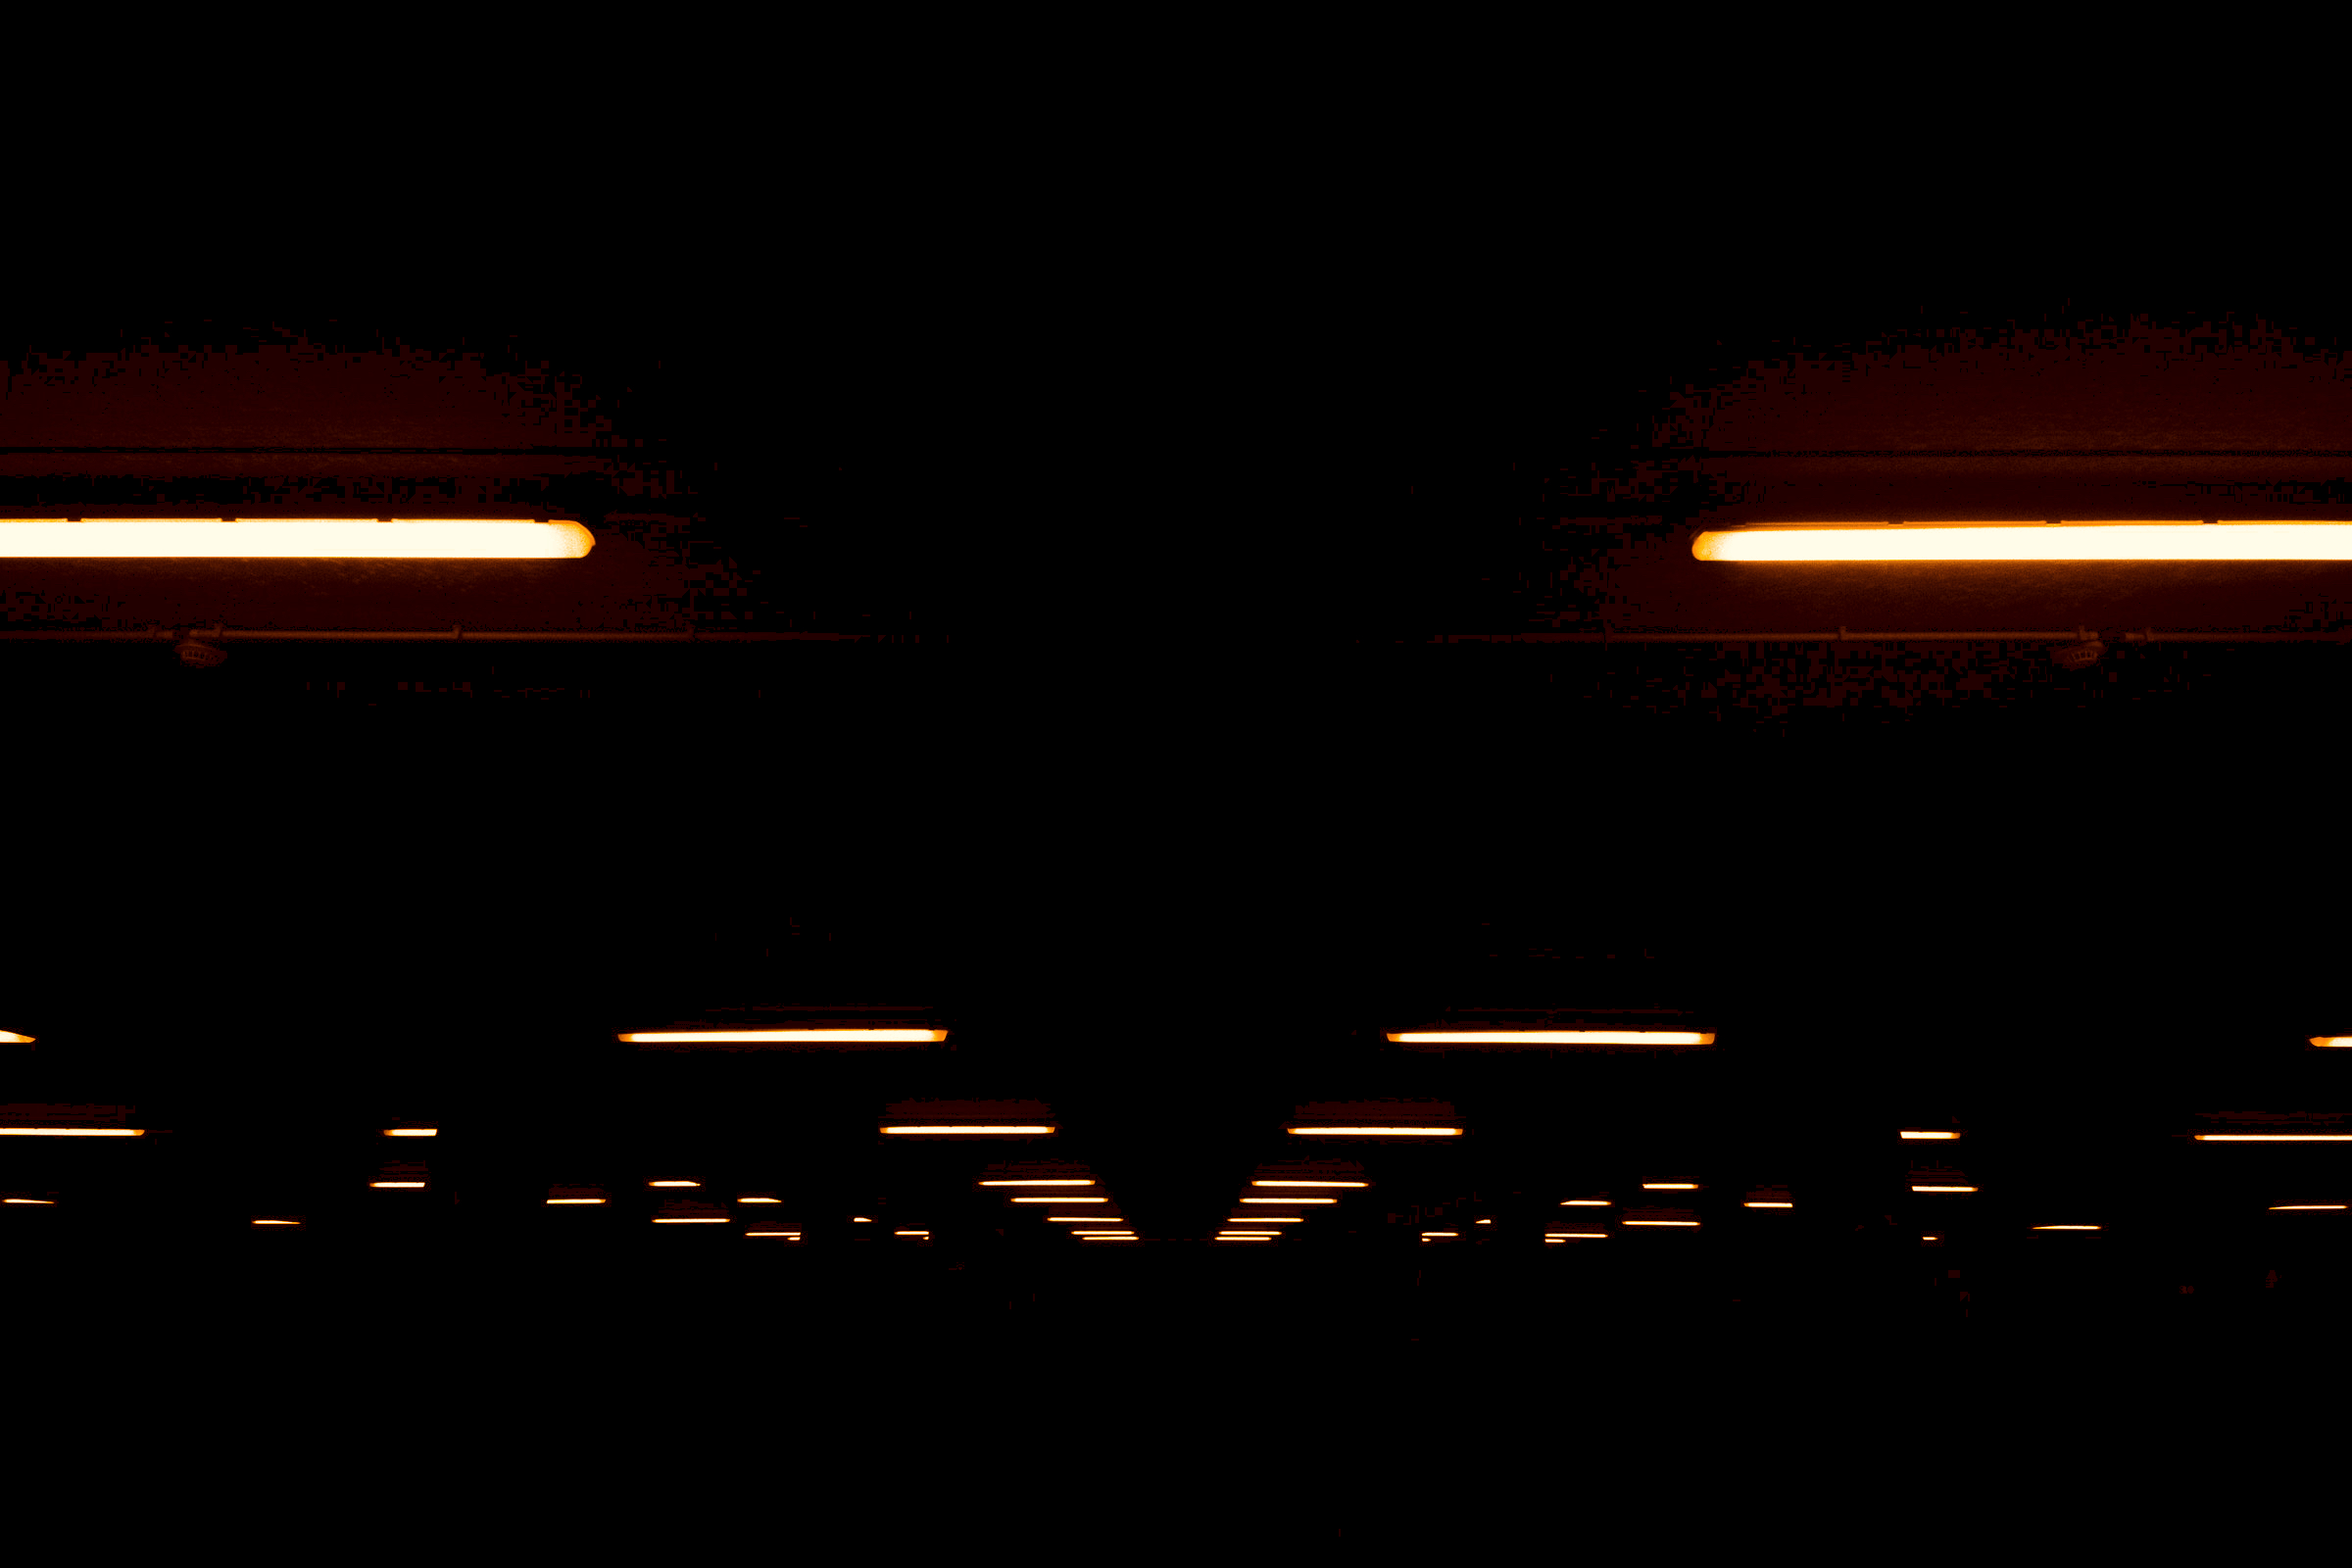
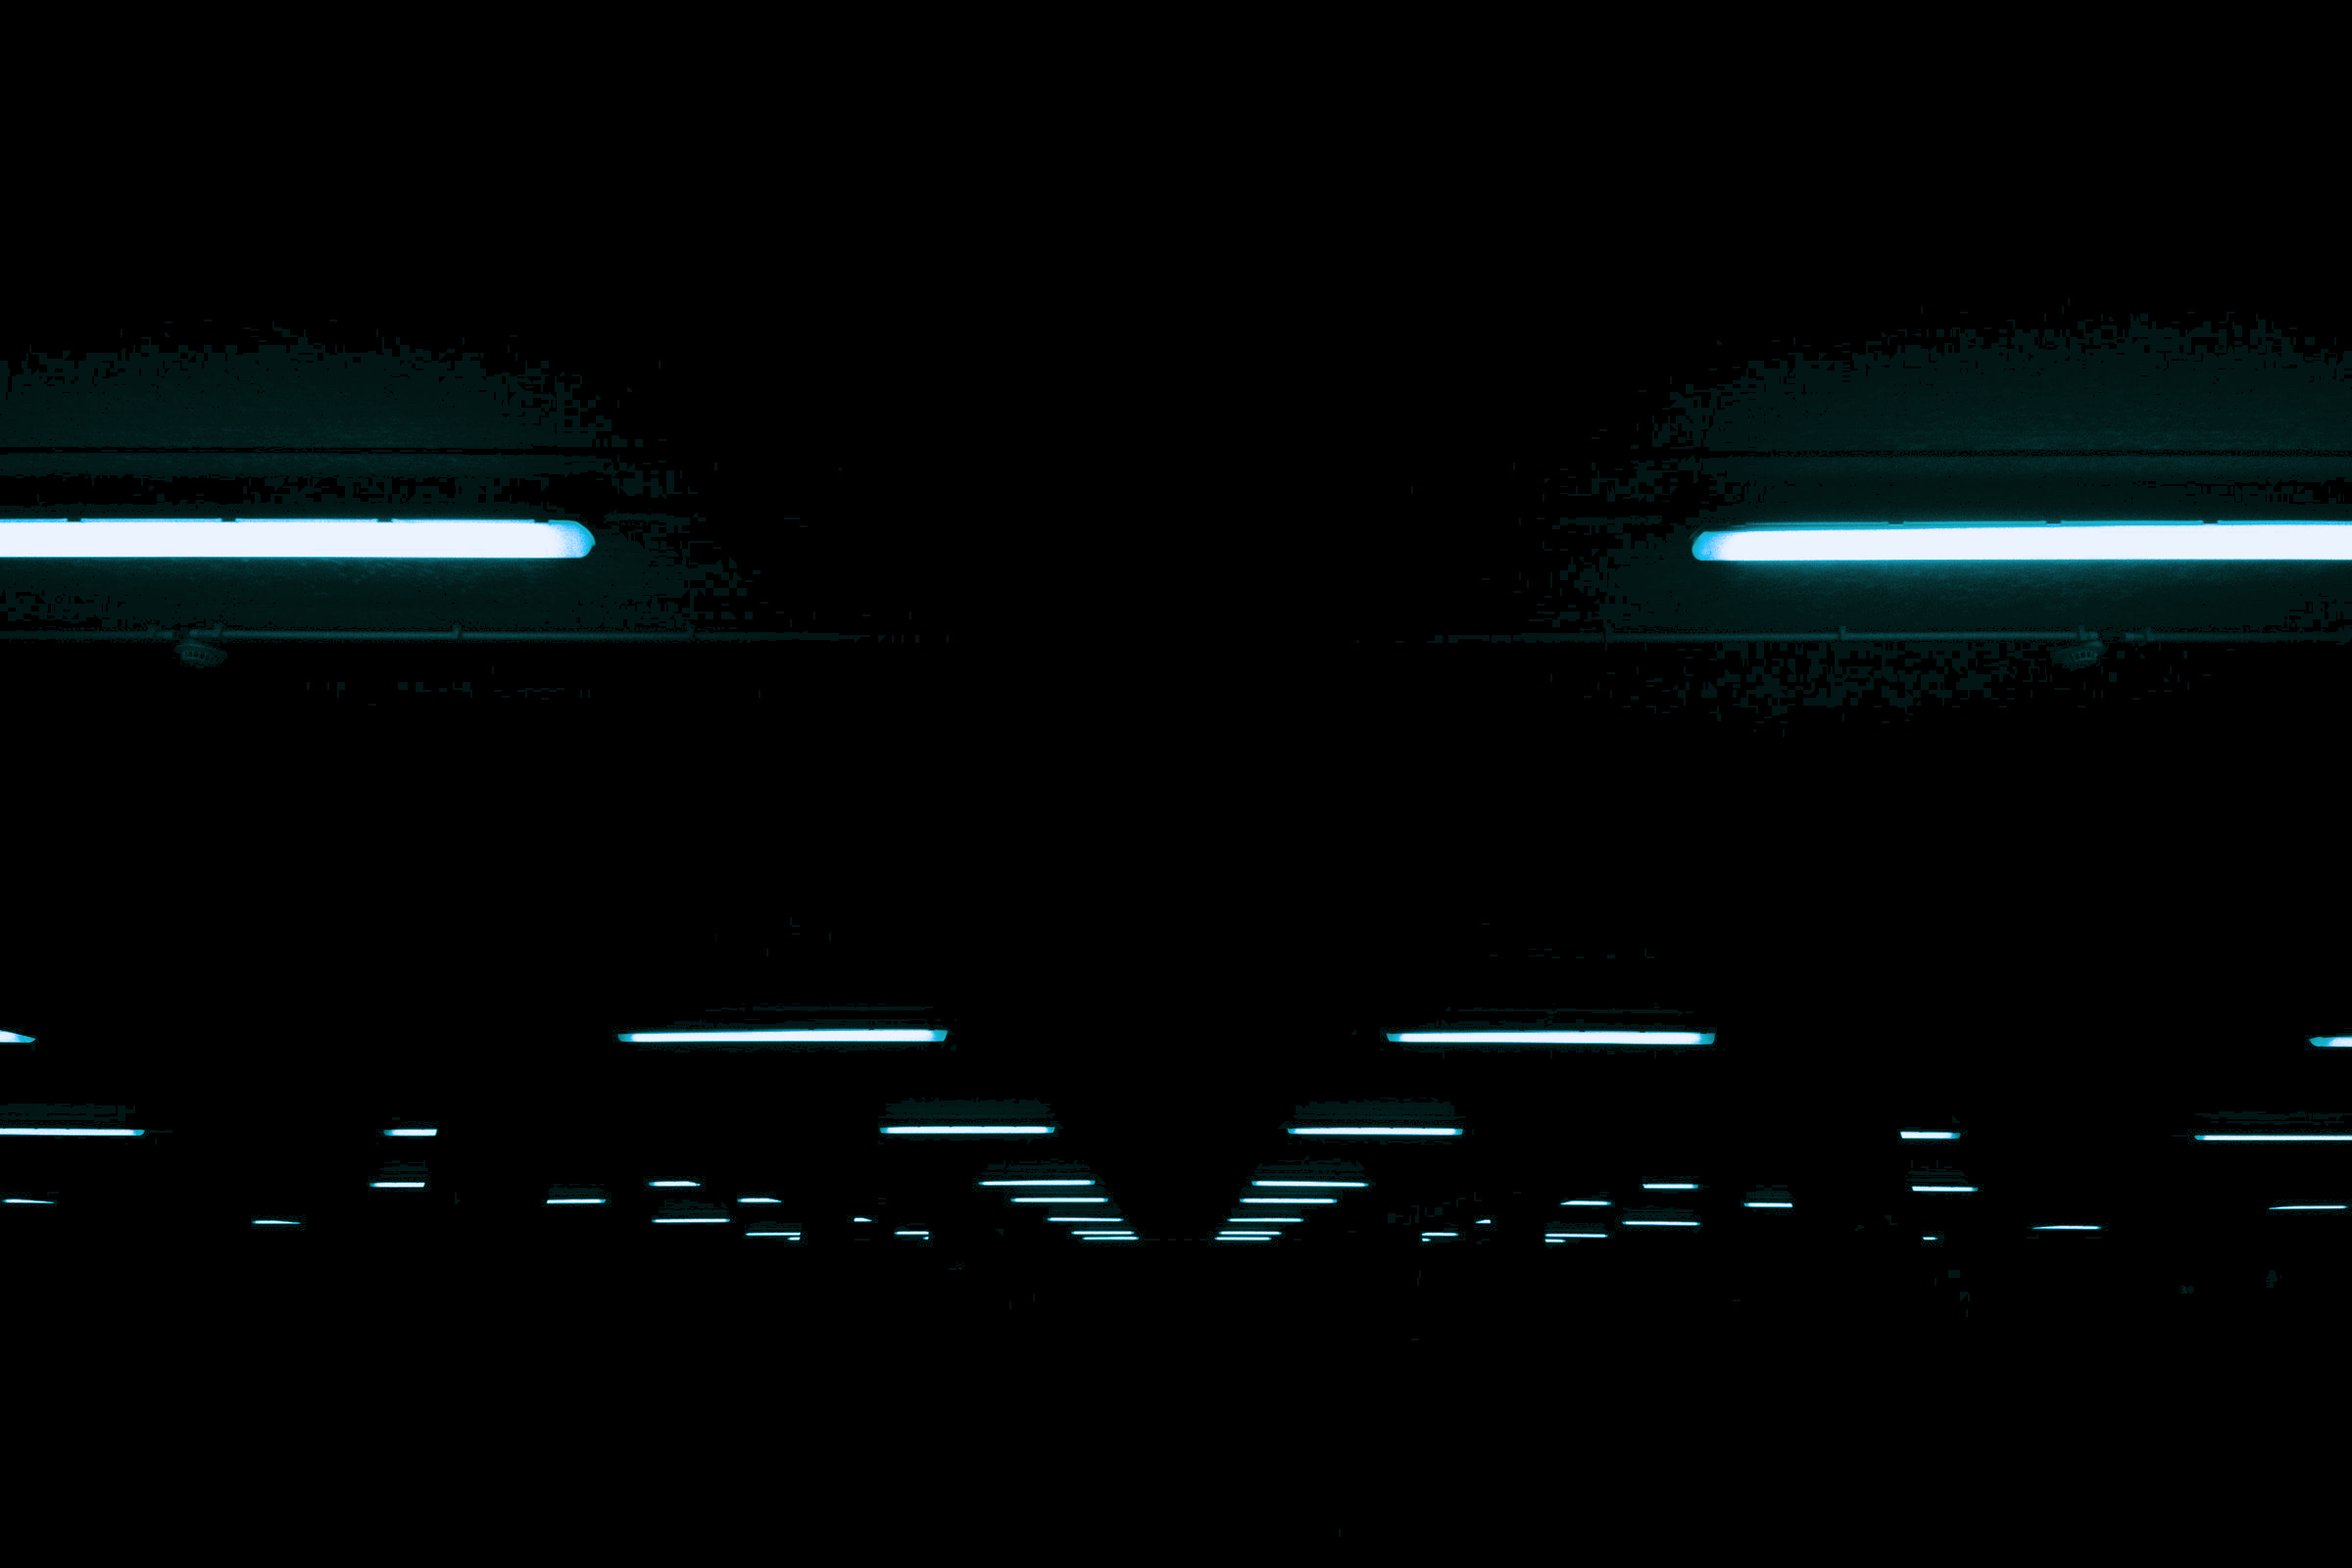
second css classes added for darth vader theme - working - in progress

diff --git a/index.html b/index.html
@@ -5,14 +5,12 @@
   <meta name="viewport" content="width=device-width, initial-scale=1.0">
   <title>Anish Vadher Portfolio</title>
   <link rel="stylesheet" href="https://cdnjs.cloudflare.com/ajax/libs/materialize/0.100.2/css/materialize.min.css">
-  <!-- <link rel="stylesheet" href="css/tiltedpage-scroll.css"> -->
   <link rel="stylesheet" type="text/css" href="https://cdnjs.cloudflare.com/ajax/libs/fullPage.js/2.9.6/jquery.fullpage.css" />
   <link href="https://fonts.googleapis.com/icon?family=Material+Icons" rel="stylesheet">
   <link rel="stylesheet" href="css/styles.css">
   <script
   src="http://code.jquery.com/jquery-3.3.1.min.js"></script>
   <script src="https://cdnjs.cloudflare.com/ajax/libs/materialize/0.100.2/js/materialize.min.js"></script>
-  <!-- <script type="text/javascript" src="js/jquery.tiltedpage-scroll.js"></script> -->
   <script type="text/javascript" src="https://cdnjs.cloudflare.com/ajax/libs/fullPage.js/2.9.6/jquery.fullpage.js"></script>
   <script defer src="https://use.fontawesome.com/releases/v5.0.6/js/all.js"></script>
   <script type="text/javascript" src="js/app.js"></script>
@@ -29,15 +27,16 @@
           </div>
         </div>
         <div class="row">
-          <div class="col s10">
+          <div class="col s4 m10">
             <a href="https://github.com/avadher510"><i class="fab fa-github fa-2x"></i></a>
           </div>
-          <div class="col s1">
+          <div class="col s4 m1">
             <a href="#contact-form"><i class="fas fa-envelope fa-2x"></i></a>
           </div>
-          <div class="col s1">
+          <div class="col s4 m1">
             <a href="https://www.linkedin.com/in/anish-vadher/"><i class="fab fa-linkedin fa-2x"></i></a>
           </div>
+          <button id="theme" class="theme-btn">Click Here to Change Theme</button>
         </div>
       </div>
     </div>
@@ -142,7 +141,16 @@
             <ul class="collapsible" data-collapsible="accordion">
               <li>
                 <div class="collapsible-header"><i class="material-icons">beenhere</i>Interests</div>
-                <div class="collapsible-body"><span></span></div>
+                <div class="collapsible-body">
+                  <span>
+                    <br />
+                    Gym
+                    <br />
+                    American Football
+                    <br />
+                    Development
+                  </span>
+                </div>
               </li>
             </ul>
           </div>
@@ -150,7 +158,17 @@
             <ul class="collapsible" data-collapsible="accordion">
               <li>
                 <div class="collapsible-header"><i class="material-icons">person_pin</i>Hobbies</div>
-                <div class="collapsible-body"><span>My Hobbies</span></div>
+                <div class="collapsible-body">
+                  <span>
+                    Woodcarving
+                    <br />
+                    Guitar
+                    <br />
+                    Motorbikes
+                    <br />
+                    Reading to Improve Skills
+                  </span>
+                </div>
               </li>
             </ul>
           </div>
@@ -159,8 +177,20 @@
           <div class="col s12 m6">
             <ul class="collapsible" data-collapsible="accordion">
               <li>
-                <div class="collapsible-header"><i class="material-icons">whatshot</i>Goals</div>
-                <div class="collapsible-body"><span>My Goals</span></div>
+                <div class="collapsible-header"><i class="material-icons">whatshot</i>Professional Goals</div>
+                <div class="collapsible-body">
+                  <span>
+                    I am a highly motivated individual. My motivation is not external - it is intrinsic. I have the drive from within myself to want to achieve my goals.
+                    <br />
+                    Continue Learning - to be the best at my profession.
+                    <br />
+                    Become an asset to the company for whom I work.
+                    <br />
+                    To impart my skills and knowledge to others starting in the industry.
+                    <br />
+                    Be at the forefront of technology.
+                  </span>
+                </div>
               </li>
             </ul>
           </div>
@@ -168,7 +198,19 @@
             <ul class="collapsible" data-collapsible="accordion">
               <li>
                 <div class="collapsible-header"><i class="material-icons">sentiment_very_satisfied</i>Achievements</div>
-                <div class="collapsible-body"><span>My Achievements</span></div>
+                <div class="collapsible-body">
+                  <span>
+                    My achievements are available on my CV and LinkedIn, but to Summarise:
+                    <br />
+                    Working hard to make my career move to Development
+                    <br />
+                    My Education.
+                    <br />
+                    My Professional Experience.
+                    <br />
+                    My surname (Vadher - Star Wars anyone? )
+                  </span>
+                </div>
               </li>
             </ul>
           </div>

diff --git a/js/app.js b/js/app.js
@@ -1,14 +1,27 @@
 $( document ).ready(function() {
-
-  // $('.main').tiltedpage_scroll({
-  //   sectionContainer: '> section',     // In case you don't want to use <section> tag, you can define your won CSS selector here
-  //   angle: 50,                         // You can define the angle of the tilted section here. Change this to false if you want to disable the tilted effect. The default value is 50 degrees.
-  //   opacity: true,                     // You can toggle the opacity effect with this option. The default value is true
-  //   scale: true,                       // You can toggle the scaling effect here as well. The default value is true.
-  //   outAnimation: true                 // In case you do not want the out animation, you can toggle this to false. The defaul value is true.
-  // });
   $('#fullpage').fullpage();
-  $('.modal').modal();
   $('.collapsible').collapsible();
+
+  const $page1bg = $('.page1-bg');
+  const $page2bg = $('.page2-bg');
+  const $page3bg = $('.page3-bg');
+  const $page4bg = $('.page4-bg');
+  const $name = $('.name');
+  const $themebtn = $('#theme');
+  const $emailbtn = $('.cyan');
+  const $collapsible = $('.collapsible');
+  const $collapsibleHeader = $('.collapsible-header');
+  const $changeTheme = $('.theme-btn');
+
+  $themebtn.click(function() {
+    $page1bg.toggleClass('page1-bg-dv');
+    $page2bg.toggleClass('page2-bg-dv');
+    $page3bg.toggleClass('page3-bg-dv');
+    $page4bg.toggleClass('page4-bg-dv');
+    $name.toggleClass('name-dv');
+    $emailbtn.toggleClass('red');
+    $collapsible.toggleClass('collapsible-dv');
+    $collapsibleHeader.toggleClass('collapsible-header-dv');
+  });
 
 });

diff --git a/css/styles.css b/css/styles.css
@@ -16,23 +16,14 @@ html {
 }
 
 .page2-bg {
-  /* background-image: url('images/red-black-abstract-i-f.jpg');
-  background-position: center;
-  background-size: cover; */
   background-color: #323334;
 }
 
 .page3-bg {
-  /* background-image: url('images/red-black-abstract.jpg');
-  background-position: center;
-  background-size: cover; */
   background-color: #4191B3;
 }
 
 .page4-bg {
-  /* background-image: url('images/red-black-contact.jpg');
-  background-position: center;
-  background-size: cover; */
   background-color: #3A81BD;
 }
 
@@ -71,4 +62,49 @@ i {
 
 .collapsible-header {
   background-color: #4191B3;
+}
+
+.theme-btn {
+  background-color: #4191B3;
+  opacity: 0.5;
+  border: none;
+  padding: 10px;
+  margin-top: 20px;
+}
+
+/* SECOND THEME */
+.page1-bg-dv {
+  background-image: url('images/dv-bg.png');
+  background-position: center;
+  background-size: cover;
+  text-align: right;
+}
+
+.page2-bg-dv {
+  background-image: url('images/red-black-pg2.jpg');
+  background-position: center;
+  background-size: cover;
+}
+
+.page3-bg-dv {
+  background-color: #801515;
+}
+
+.page4-bg-dv {
+  background-image: url('images/red-saber.jpg');
+  background-position: center;
+  background-size: cover;
+}
+
+.name-dv {
+  color: #CE0C2C;
+}
+
+.collapsible-dv {
+  background-color: #5A0909;
+  background-color: rgba(0, 0, 0, 0.5);
+}
+
+.collapsible-header-dv {
+  background-color: #5f0000;
 }
